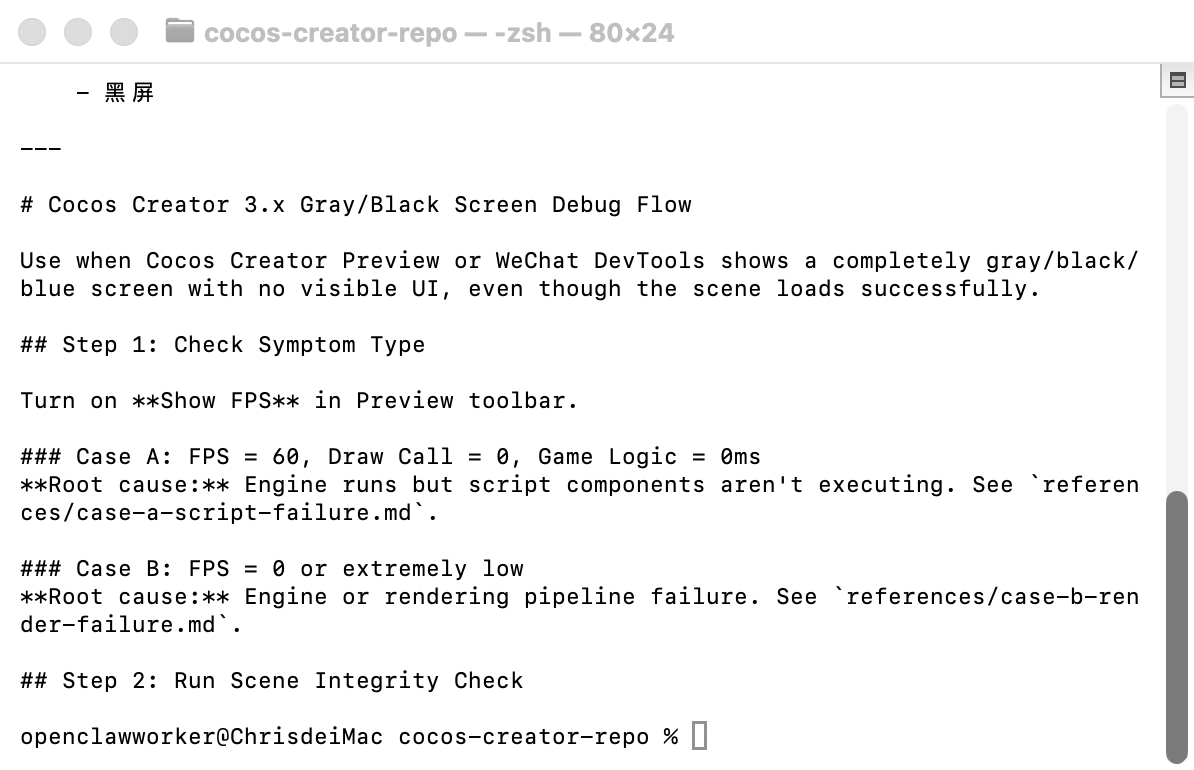
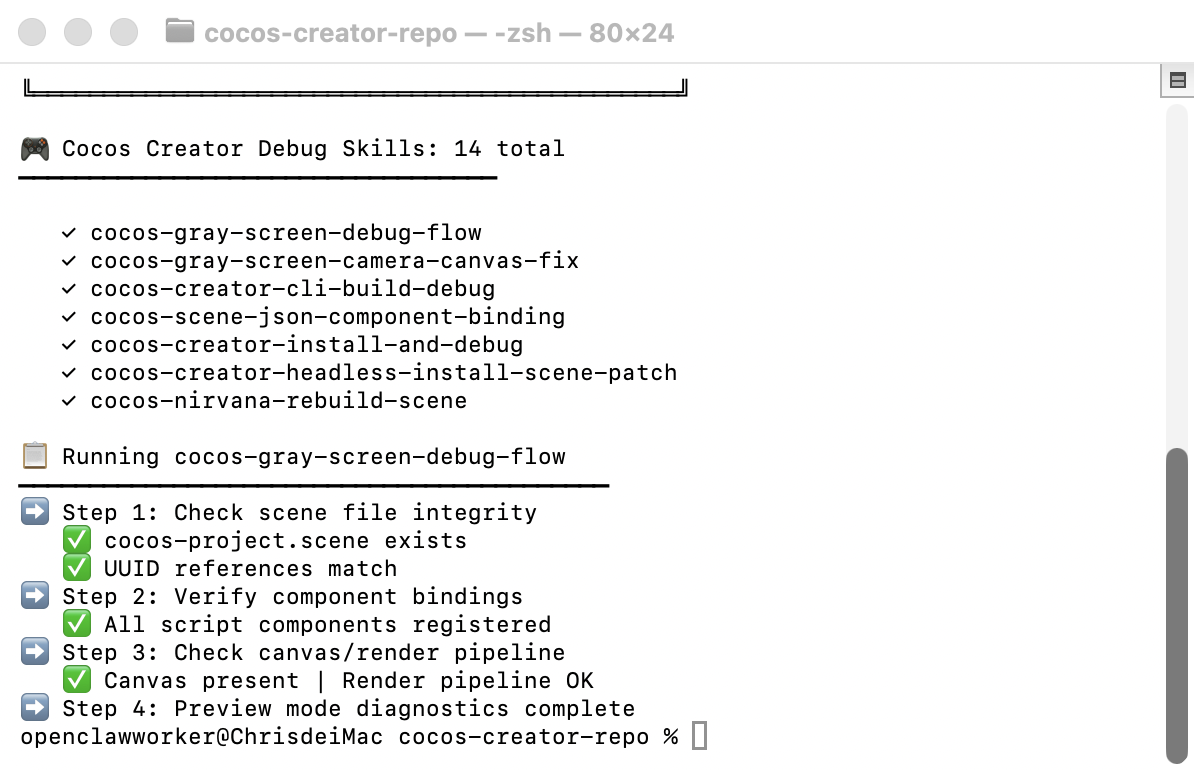
fix: replace screenshot with real Cocos Creator gray-screen-debug-flow step-by-step diagnostics terminal output

diff --git a/README.md b/README.md
@@ -22,7 +22,7 @@
   <br><br>
   <img src="screenshots/demo-real.png" alt="cocos-creator-debug-skills live demo" width="90%" style="border-radius: 8px; border: 1px solid #30363d;">
   <br>
-  <em>Terminal showing a live Cocos Creator gray screen debug flow — FPS check, draw call analysis, step-by-step diagnosis</em>
+  <em>Cocos Creator gray-screen-debug-flow terminal output — step-by-step scene file integrity, component bindings, and render pipeline diagnostics</em>
 </div>
 
 <br>